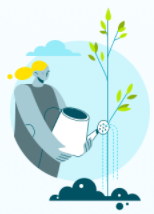
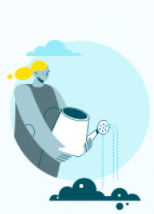
animation

Changed region(s): [[0.5714, 0.028, 0.8831, 0.5888], [0.6753, 0.6168, 0.7273, 0.9252]]

diff --git a/HTML_CSS/projects/Dribbble 2/Group 3 - Herut, Morde and Hillel/screen2.css b/HTML_CSS/projects/Dribbble 2/Group 3 - Herut, Morde and Hillel/screen2.css
@@ -1,8 +1,8 @@
 :root {
   --screenMinWidth: 410px;
-  /* --screenMinHeight: 730px; */
+  /* --screenMinHeight: 100vh; */
   --borderRadius: 2em;
-  --border: solid 5px #1f5060;
+  --border: solid .8em #1f5060;
   --backgroundColor: #f8fdff;
   --successTitlecolor: #a6b43f;
   --successTitleFontSize: 3em ;
@@ -59,13 +59,105 @@ justify-content: space-between;
 } */
 
 .successPage__pic{
-  background-image: url(./img/screen2.png);
+  background-image: url(./img/screen3.png);
+  position: relative;
   width: 100%;
   height: 400px;
   background-repeat: no-repeat;
   background-position: center;
   background-size: contain;
+  /* overflow: hidden; */
+  overflow: hidden;
+  /* z-index: -2; */
   
+}
+
+.successPage__pic .tree {
+  /* content: url(./img/tree.png); */
+  display: block;
+  margin: auto;
+  position: relative;
+  top: -5px;
+  left: 58px;
+  /* width: 300px; */
+  /* z-index: -1; */
+ /* */
+
+   /* animation: name duration timing-function delay iteration-count direction fill-mode; */
+   animation:grow  7s linear ;
+}
+
+@keyframes grow{
+  from {top:380px; left: 58px;}
+  to {top:-5px; left: 58px;}
+/* 
+  0%   {top:490px; left: 58px;}
+  10%  {top:480px; left: 58px;}
+  20%  {top:470px; left: 58px;}
+  30%  {top:460px; left: 58px;}
+  40%  {top:450px; left: 58px;}
+  60%  {top:490px; left: 58px;}
+  70%  {top:300px; left: 58px;}
+  80%  {top:490px; left: 58px;}
+  100% {top:490px; left: 58px;} */
+}
+
+.successPage__pic img.ground {
+  display: block;
+  margin: auto;
+  position: relative;
+  width:320px;
+  /* height: 70px; */
+  top: -60px;
+  left: -5px;
+  z-index: 1;
+  
+}
+
+.successPage__pic img.hands
+{
+  display: block;
+  margin: auto;
+  position: relative;
+  width:290px;
+  top: -672px;
+  left: 25px;
+  z-index: 1;
+
+  animation:hands  1.5s linear ;
+  animation-fill-mode: forwards;
+
+  top: -675px;
+  left:25px;
+  transform: rotate(15deg);
+  transform-origin: top left;
+  
+}
+
+@keyframes hands{
+
+
+  from {   top: -675px;
+    left:25px;
+    transform: rotate(15deg); }
+  to {  top: -675px;
+    left:25px;
+    transform: rotate(0deg);}
+
+  /* from {top:-672px; left: 10px;}
+  to {top:-672px; left: 25px;} */
+
+
+/* 
+  0%   {top:490px; left: 58px;}
+  10%  {top:480px; left: 58px;}
+  20%  {top:470px; left: 58px;}
+  30%  {top:460px; left: 58px;}
+  40%  {top:450px; left: 58px;}
+  60%  {top:490px; left: 58px;}
+  70%  {top:300px; left: 58px;}
+  80%  {top:490px; left: 58px;}
+  100% {top:490px; left: 58px;} */
 }
 
 .successPage__text{

diff --git a/HTML_CSS/projects/Dribbble 2/Group 3 - Herut, Morde and Hillel/screen2.html b/HTML_CSS/projects/Dribbble 2/Group 3 - Herut, Morde and Hillel/screen2.html
@@ -17,7 +17,11 @@
     </div>
     <div class="successPage">
       <div class="successPage__closeIcon"><i class="fas fa-times floatRight" style="color: rgb(0, 153, 255); font-size: 1.5em; "></i></div>
-      <div class="successPage__pic"></div>
+      <div class="successPage__pic">
+        <img class="tree" src="./img/tree.png" alt="">
+        <img class="ground" src="./img/ground1.png" alt="">
+        <img class="hands" src="./img/hands2.png" alt="">
+      </div>
       <div class="successPage__text">
         <h1>Bravo !</h1>
         <h2>C'est une belle action</h2>
